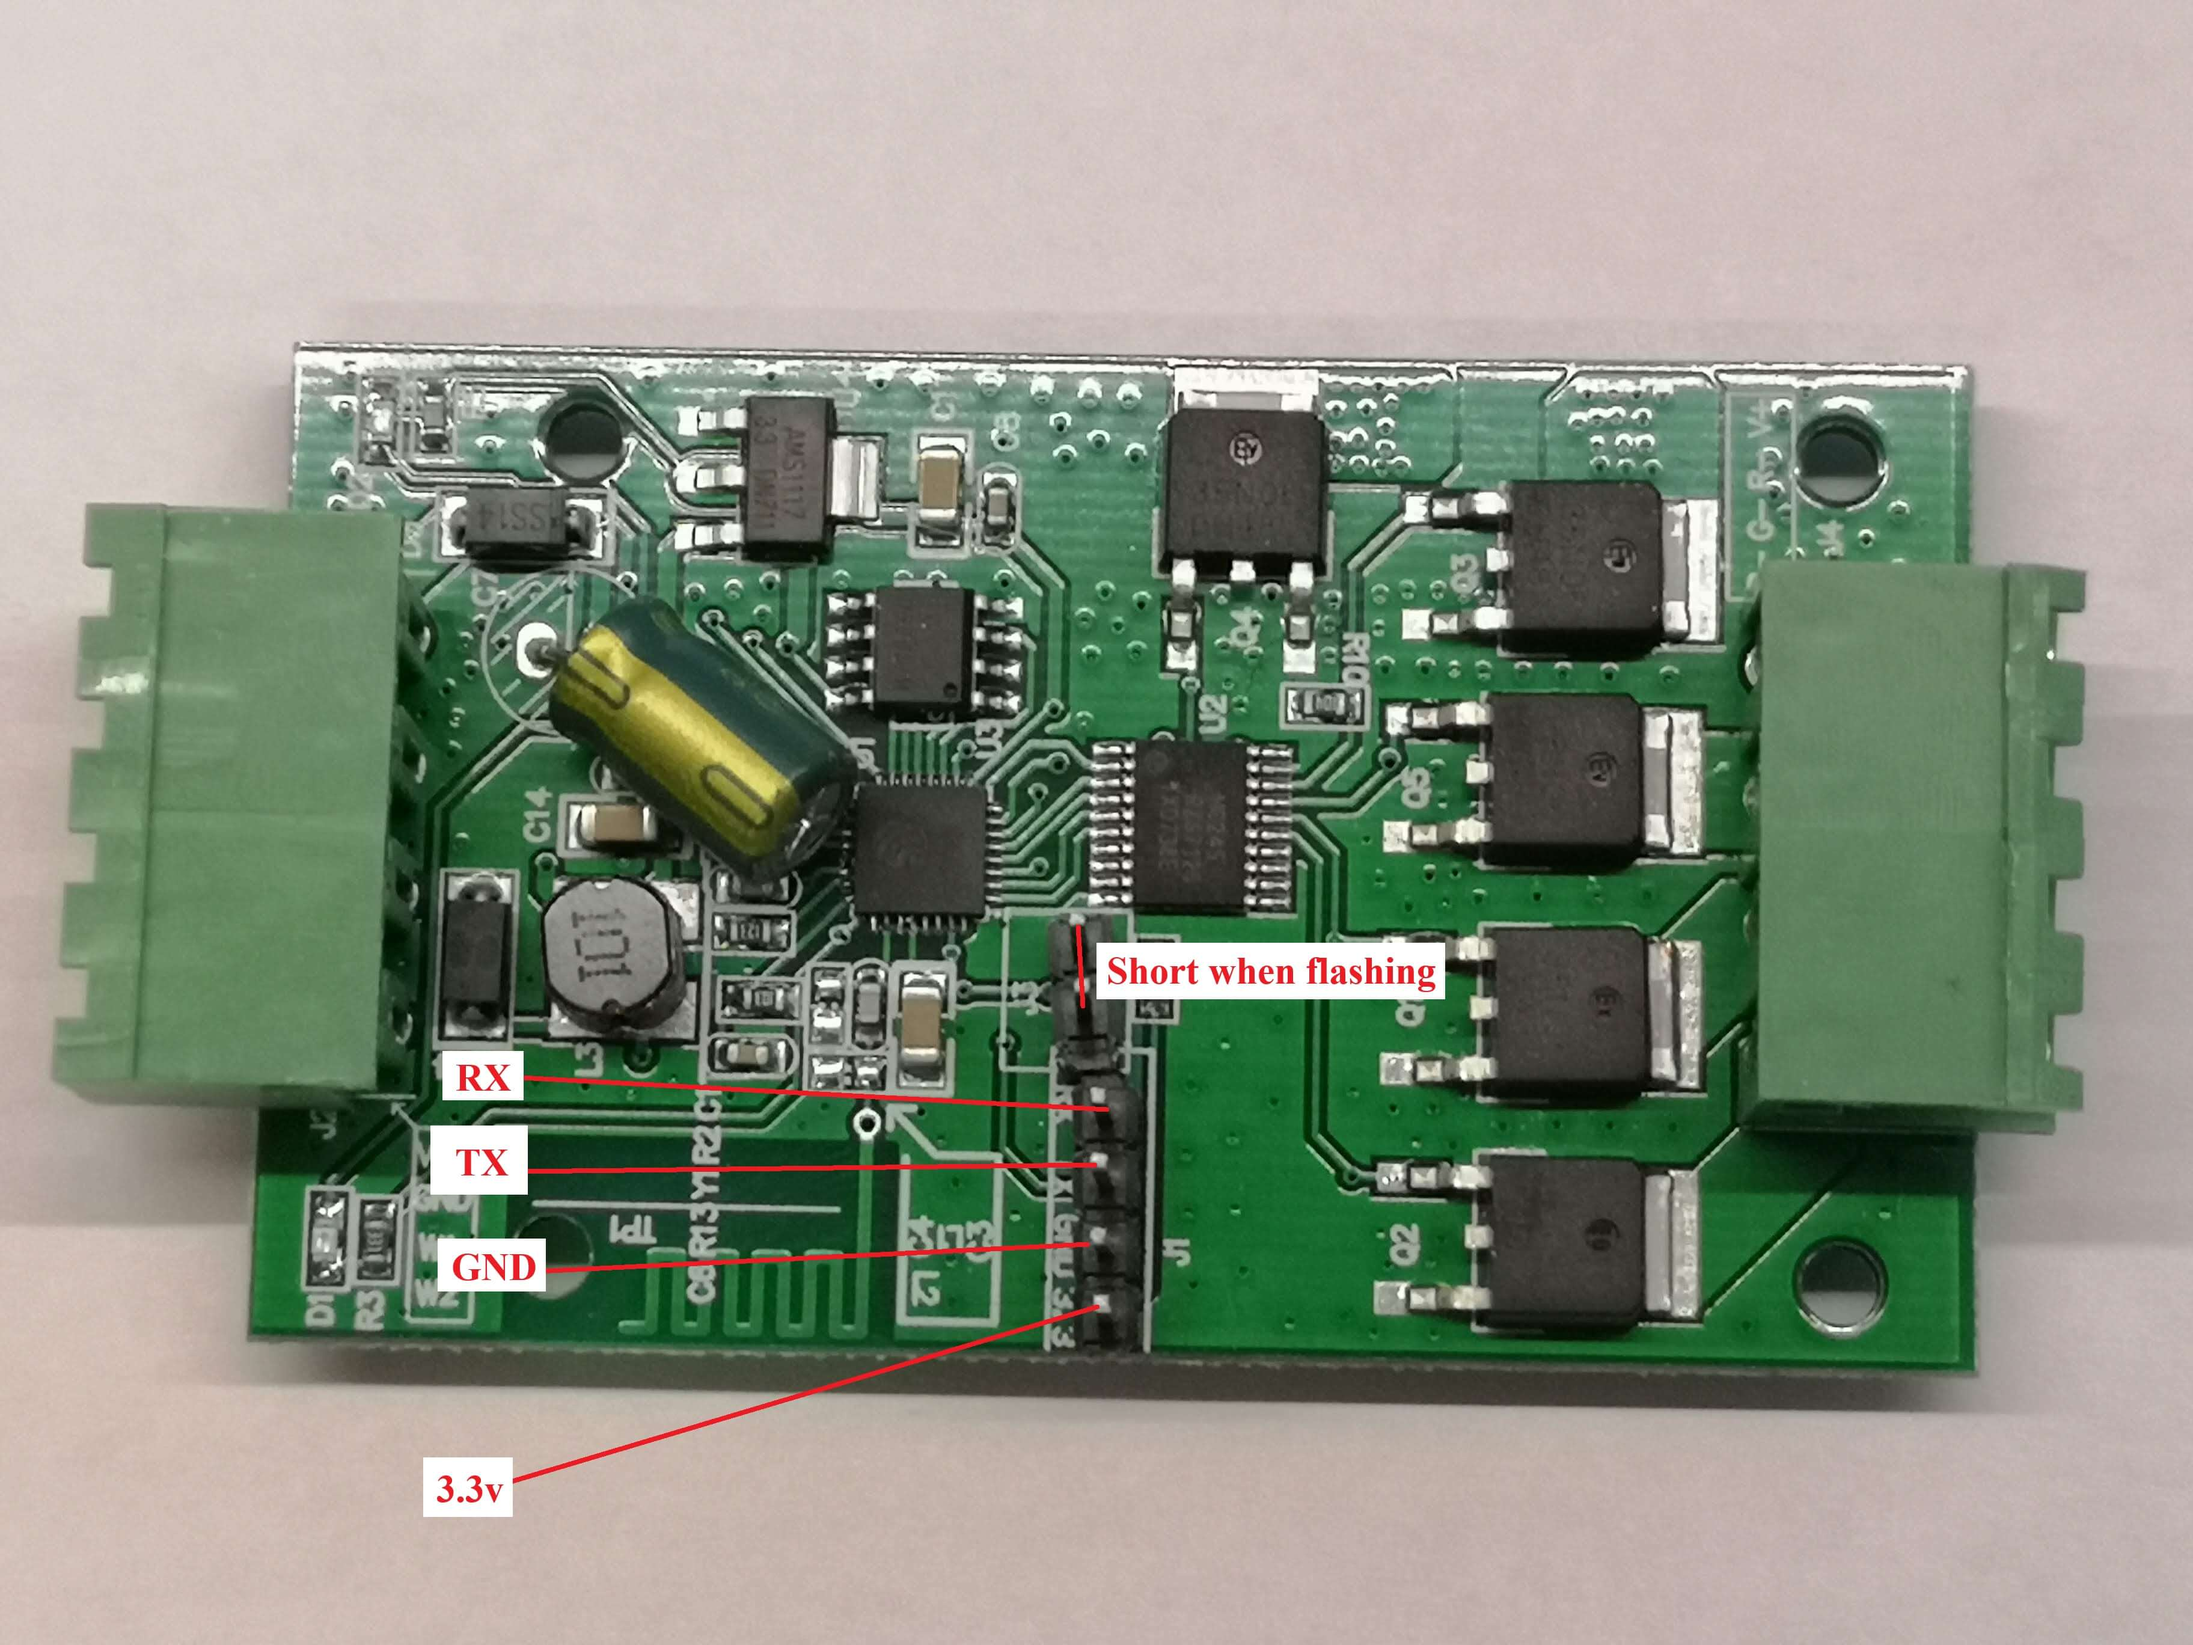
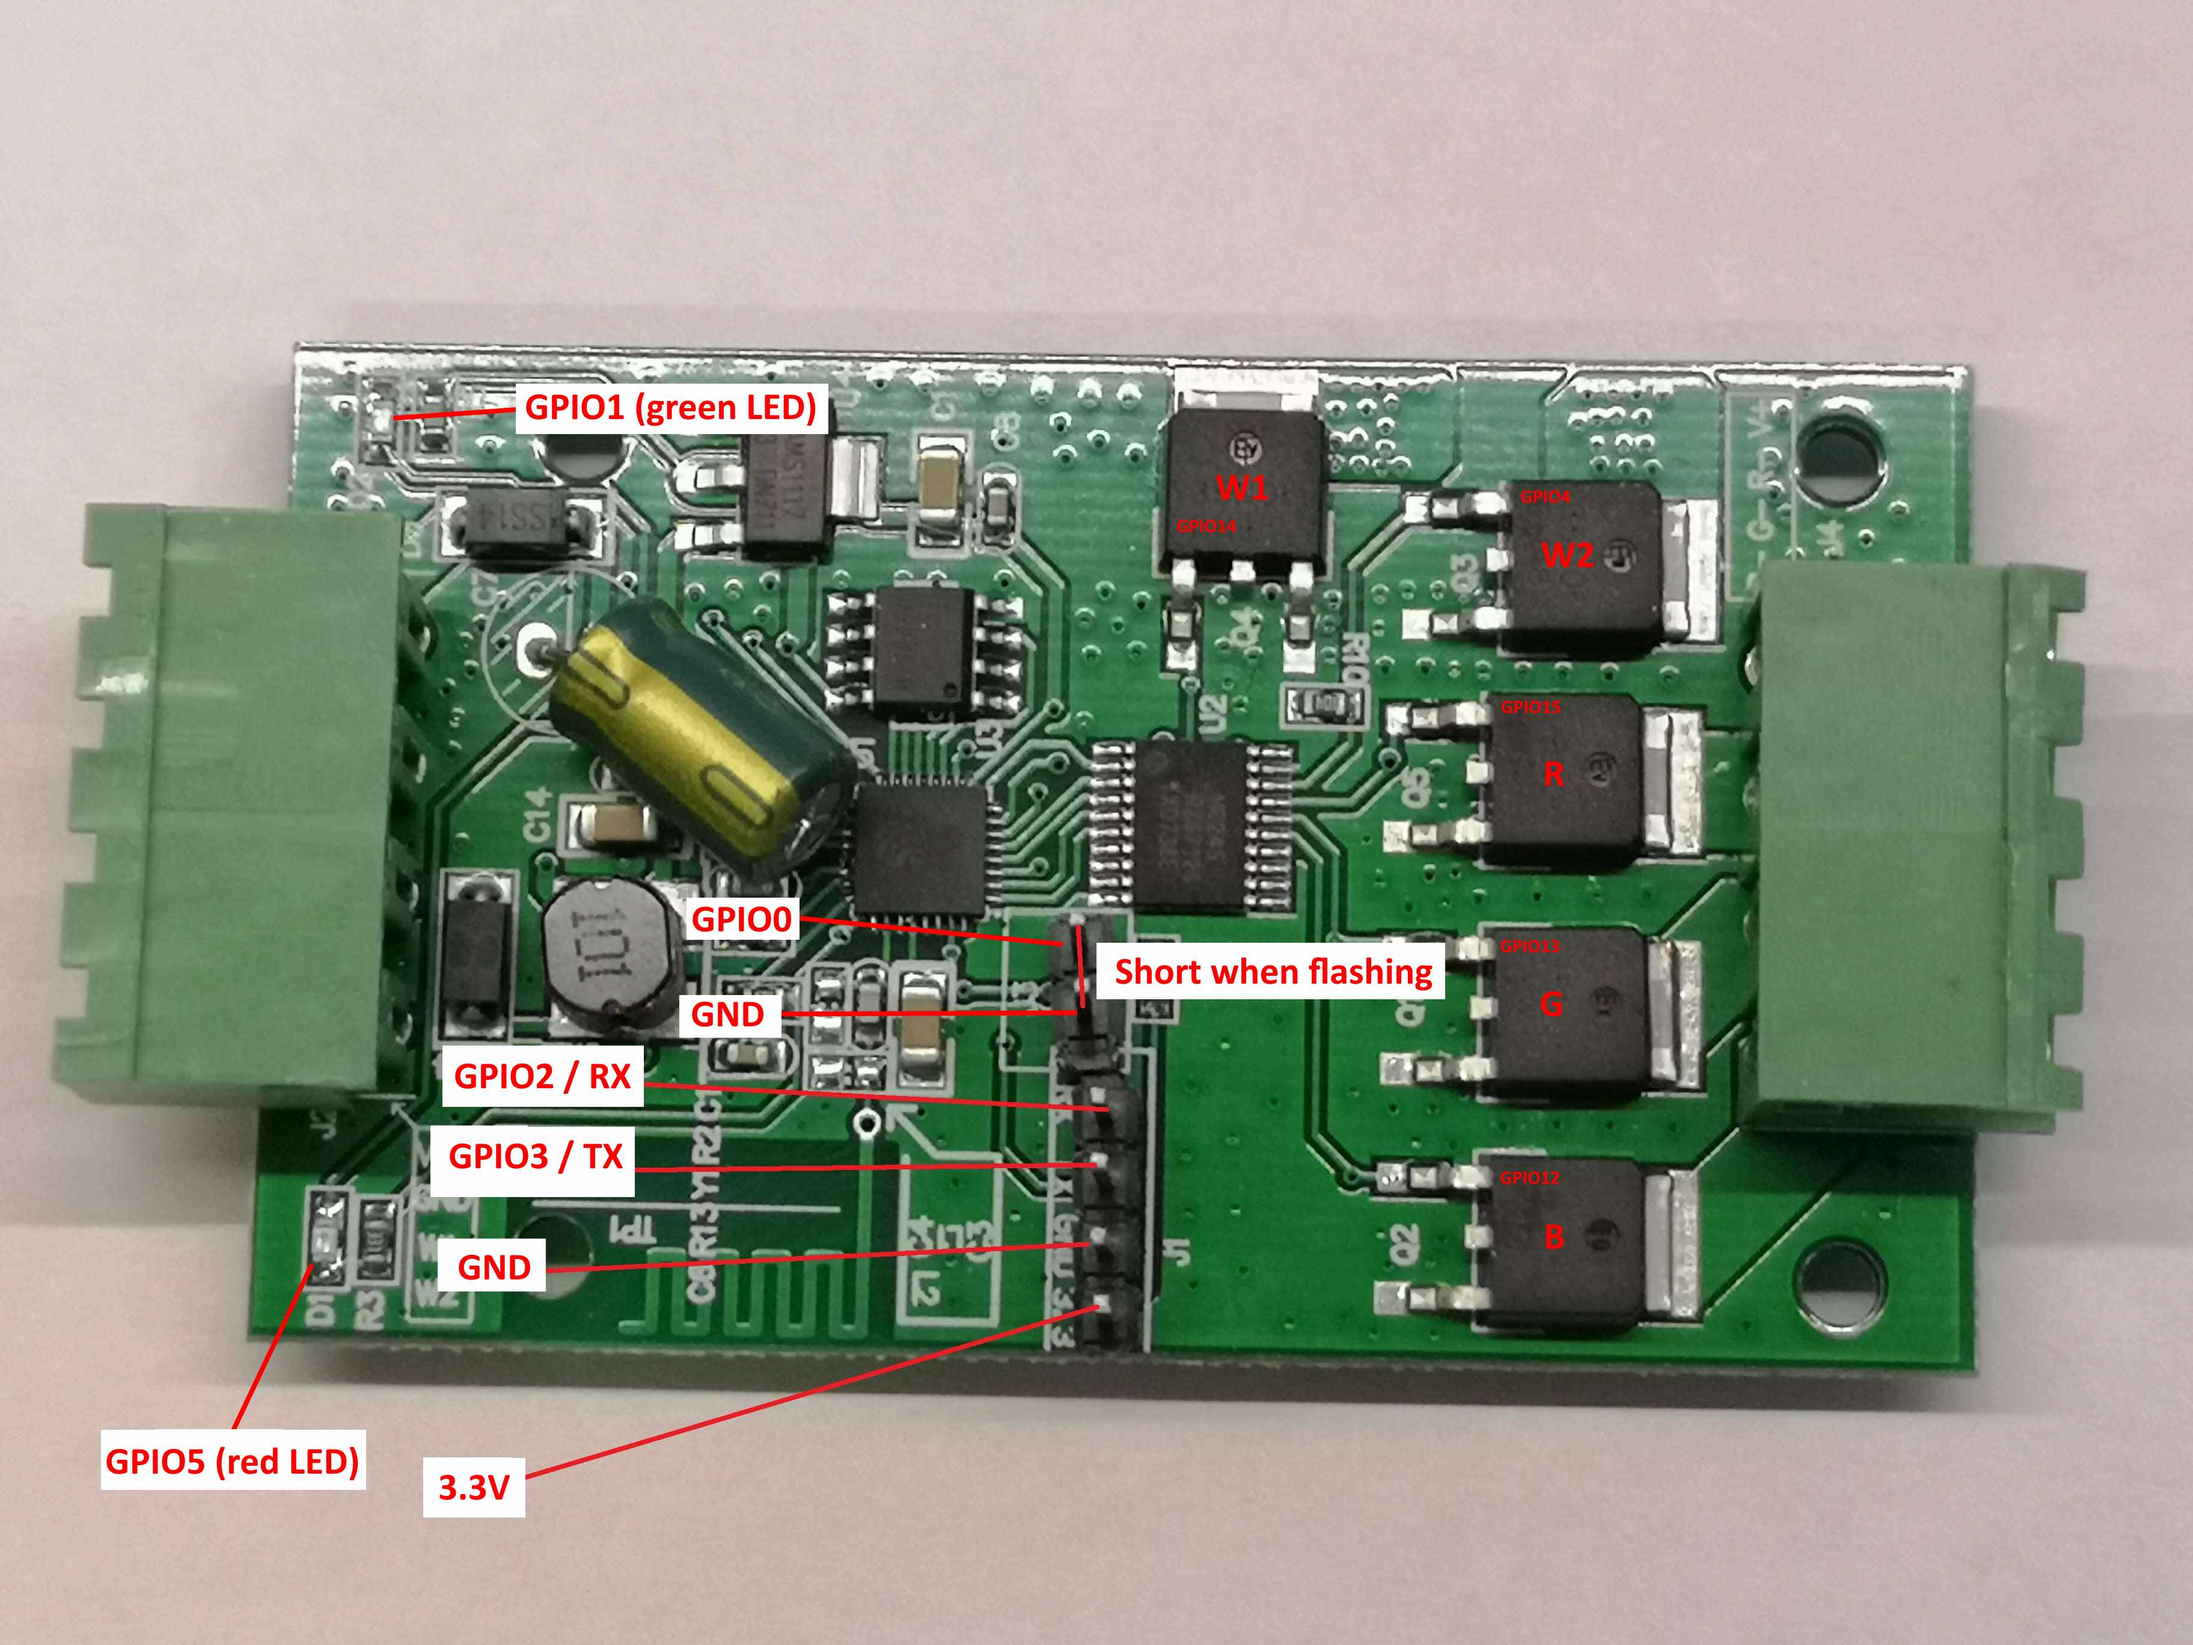
Add H801 pinout and update diagram

diff --git a/cookbook/h801.rst b/cookbook/h801.rst
@@ -126,6 +126,35 @@ sensor input.
         name: "GPIO3-TX Motion"
         device_class: motion
 
+Pinout
+------
+
+.. list-table::
+    :header-rows: 1
+
+    * - Function
+      - ESP Pin
+    * - R (PWM1)
+      - GPIO15
+    * - G (PWM2)
+      - GPIO13
+    * - B (PWM3)
+      - GPIO12
+    * - W1 (PWM4)
+      - GPIO14
+    * - W2 (PWM5)
+      - GPIO4
+    * - Jumper J3
+      - GPIO0
+    * - RX
+      - GPIO2
+    * - TX
+      - GPIO3
+    * - LED D1 (red)
+      - GPIO5
+    * - LED D2 (green)
+      - GPIO1
+
 See Also
 --------
 
